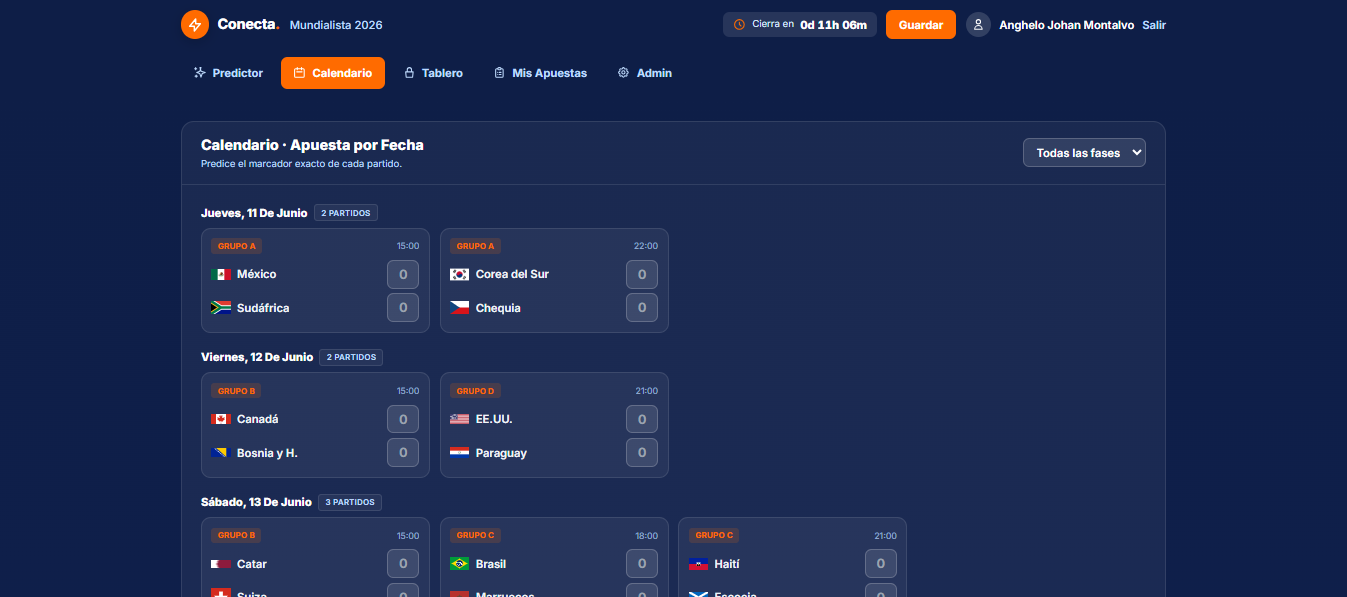
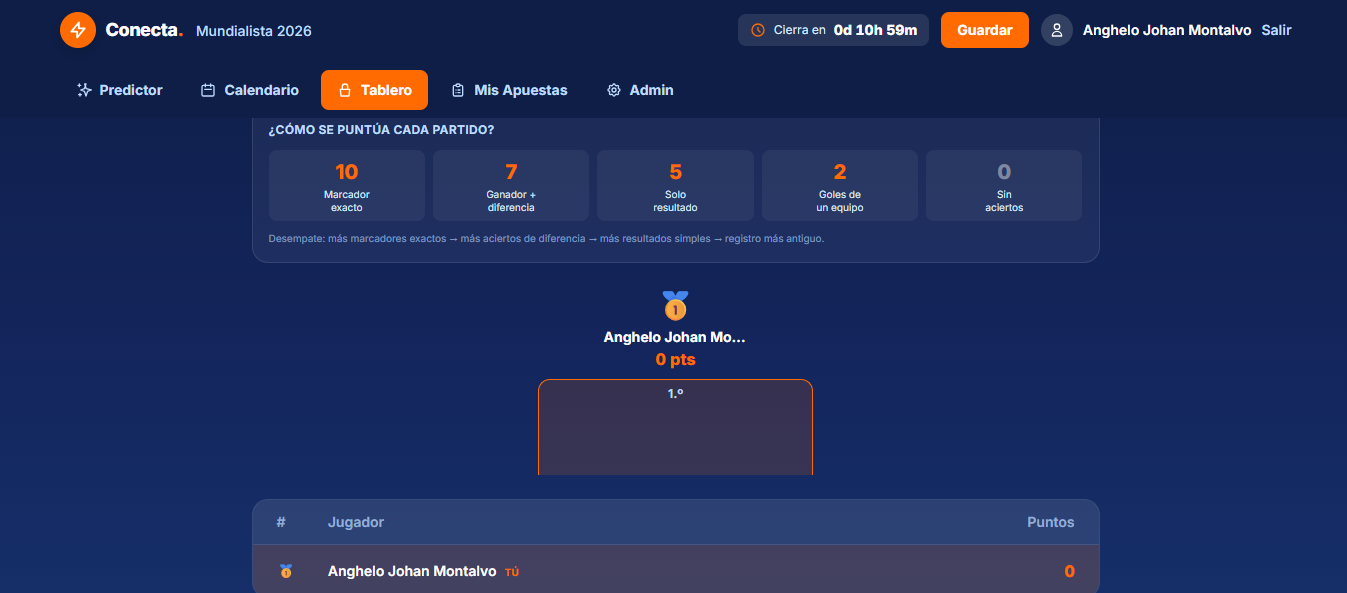
Guia: agregar captura del calendario en el Paso 5 (apuesta de marcadores)

diff --git a/docs/PRESENTACION.md b/docs/PRESENTACION.md
@@ -103,6 +103,8 @@ En la pestaña **Calendario** predices el resultado exacto de cada partido.
 - Se guarda automáticamente
 - Puedes cambiarlo… **hasta que empiece el partido**
 
+![Calendario con un partido y sus casillas de marcador](img/calendario.png)
+
 
 ---
 
